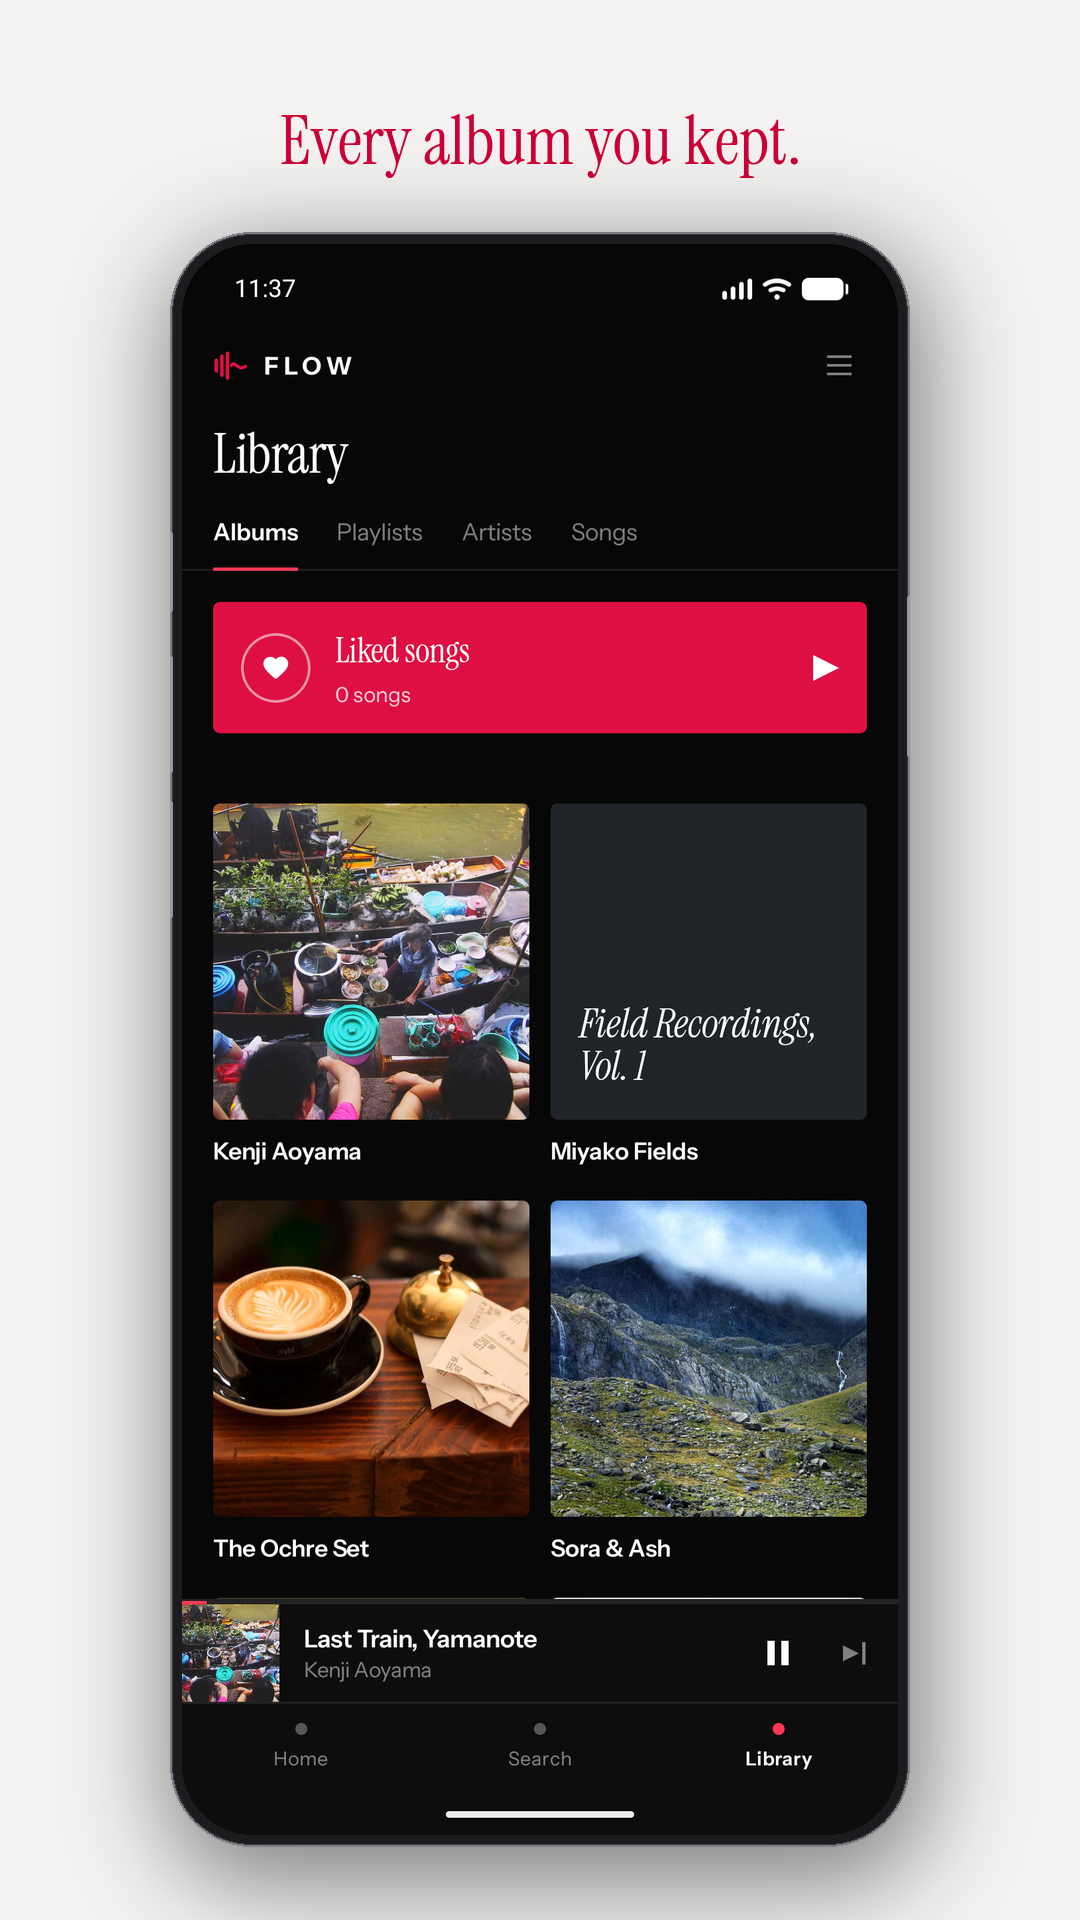
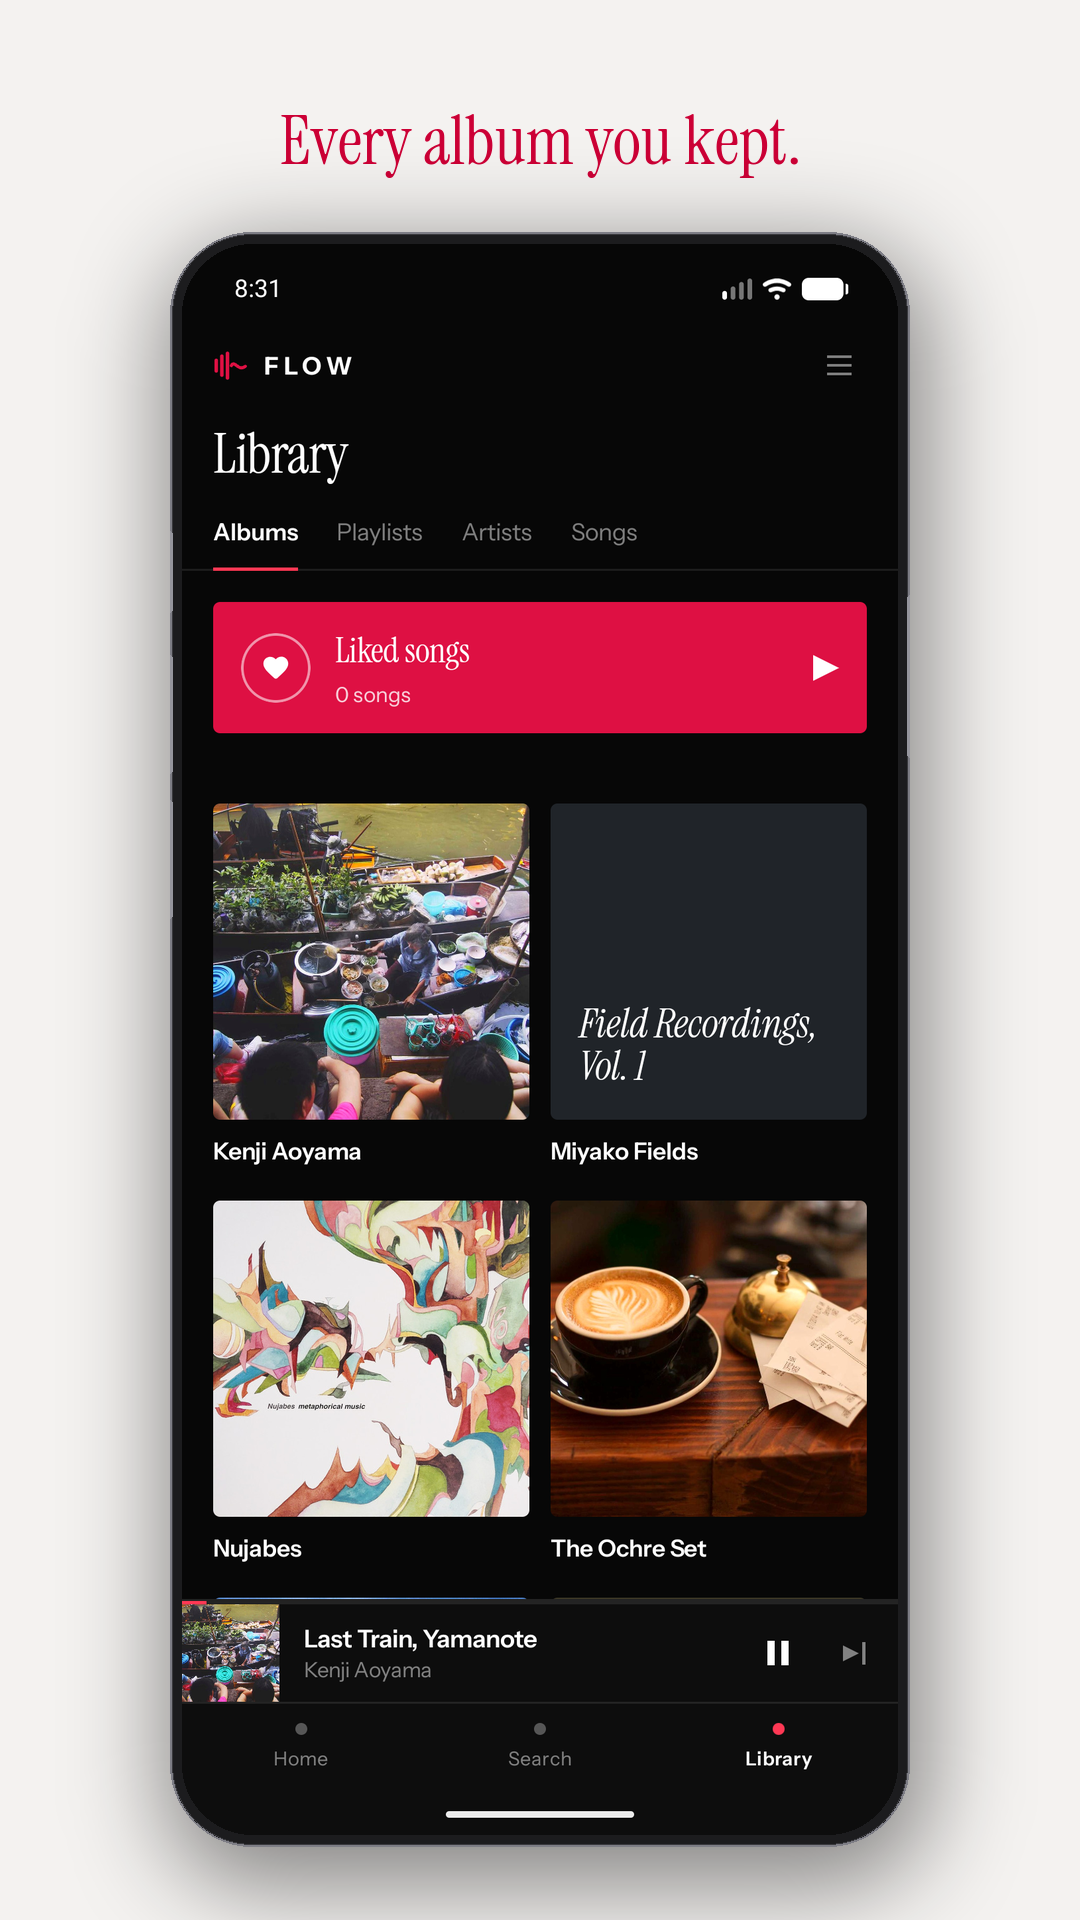
Store screenshots: Nujabes album, and a search shot that shows results
Two fixes to the listing.

Search was in the set, but captured on its empty state - a grid of browse
tiles, which in a listing carousel reads as a wall of dark boxes rather than
as search. It is now captured mid-query with real results on screen.

The demo library gains Nujabes - Metaphorical Music (Hydeout Productions,
2003): real tracklist, real durations, real release artwork. Included at the
repository owner's direction, on their statement that they hold permission
from the rights holder to use the artwork in the store listing. That
provenance is recorded in tools/fixtures/README.md so it is auditable rather
than folklore.

Its fifteen tracks also make a better album-detail panel than a five-track
one, and the cover is the most striking thing in the set.

Changed region(s): [[0.1833, 0.625, 0.825, 0.8125], [0.2139, 0.125, 0.275, 0.1562], [0.6722, 0.125, 0.7028, 0.1562]]

diff --git a/tools/fixtures/lib.py b/tools/fixtures/lib.py
@@ -5,6 +5,19 @@
 # implies a licensing relationship that does not exist, and Play's misleading
 # -content policy is enforced on exactly that.
 LIBRARY = [
+  # Nujabes — Metaphorical Music (Hydeout Productions, 2003).
+  # Real tracklist and durations, with the release artwork. Included at the
+  # repository owner's direction; they have stated they hold permission from
+  # the rights holder to use this artwork in Flow's store listing.
+  dict(dir="Metaphorical Music", album="Metaphorical Music", artist="Nujabes", year=2003,
+       art="metaphorical", freq=210, tracks=[
+        ("Blessing It (Remix)", 203), ("Horn in the Middle", 248),
+        ("Lady Brown", 198), ("Kumomi", 233),
+        ("Highs 2 Lows", 278), ("Beat Laments the World", 262),
+        ("Letter from Yokosuka", 190), ("Think Different", 197),
+        ("A Day by Atmosphere Supreme", 239), ("Next View", 275),
+        ("Latitude (Remix)", 236), ("F.I.L.O.", 211),
+        ("Summer Gypsy", 259), ("The Final View", 215), ("Peaceland", 499)]),
   dict(dir="Hanami Tape", album="Hanami Tape", artist="Yuki Sōma", year=2019,
        art="hanami", freq=196, tracks=[
         ("Komorebi", 214), ("Paper Lanterns", 187), ("Third Cup", 252),

diff --git a/tools/fixtures/panels.py b/tools/fixtures/panels.py
@@ -11,12 +11,13 @@ MUTED = (0x6B, 0x63, 0x66)
 
 # Almost no text: one line each. The screenshots carry it.
 PANELS = [
-    ("home",          "Your music. Nothing else."),
-    ("player",        "A player, not a platform."),
-    ("library",       "Every album you kept."),
-    ("detail",        "Straight to the track."),
-    ("search",        "Finds it instantly."),
-    ("library-songs", "Even the untagged ones."),
+    ("home",   "Your music. Nothing else."),
+    ("player", "A player, not a platform."),
+    ("library","Every album you kept."),
+    ("detail", "The whole record, in order."),
+    # Captured mid-query with results on screen. The empty state shows a grid
+    # of browse tiles, which in a listing just reads as a wall of dark boxes.
+    ("search", "Finds it as you type."),
 ]
 
 out = pathlib.Path("store/phoneScreenshots")

diff --git a/tools/fixtures/README.md b/tools/fixtures/README.md
@@ -18,11 +18,18 @@ The four covers are photographs from Lorem Picsum (Unsplash-sourced, free for
 commercial use), cropped square and graded as one series. `gen_art.py` still
 contains the original drawn covers if you prefer them.
 
-Do not substitute real commercial album art here. These images end up in
-`fastlane/metadata/`, which is a public repo and a Play listing — third-party
-cover art in either is someone else's copyright and Play enforces it under its
-intellectual-property policy. To see the app with your own music, use
-`use-my-music.sh` instead; those captures stay on your machine.
+### Licensed third-party artwork
+
+The library also contains **Nujabes — Metaphorical Music** (Hydeout Productions,
+2003) with its real tracklist, durations and release artwork. It is included at
+the repository owner's direction, on their statement that they hold permission
+from the rights holder to use the artwork in Flow's store listing.
+
+Anything else you add here needs the same footing. These files end up in
+`fastlane/metadata/`, which is a public repo and a Play listing, and Play
+enforces third-party cover art under its intellectual-property policy — the
+strike lands on the developer account. If you just want to look at the app with
+your own collection, use `use-my-music.sh`; those captures stay on your machine.
 
 ## Looking at it with your own library
 
